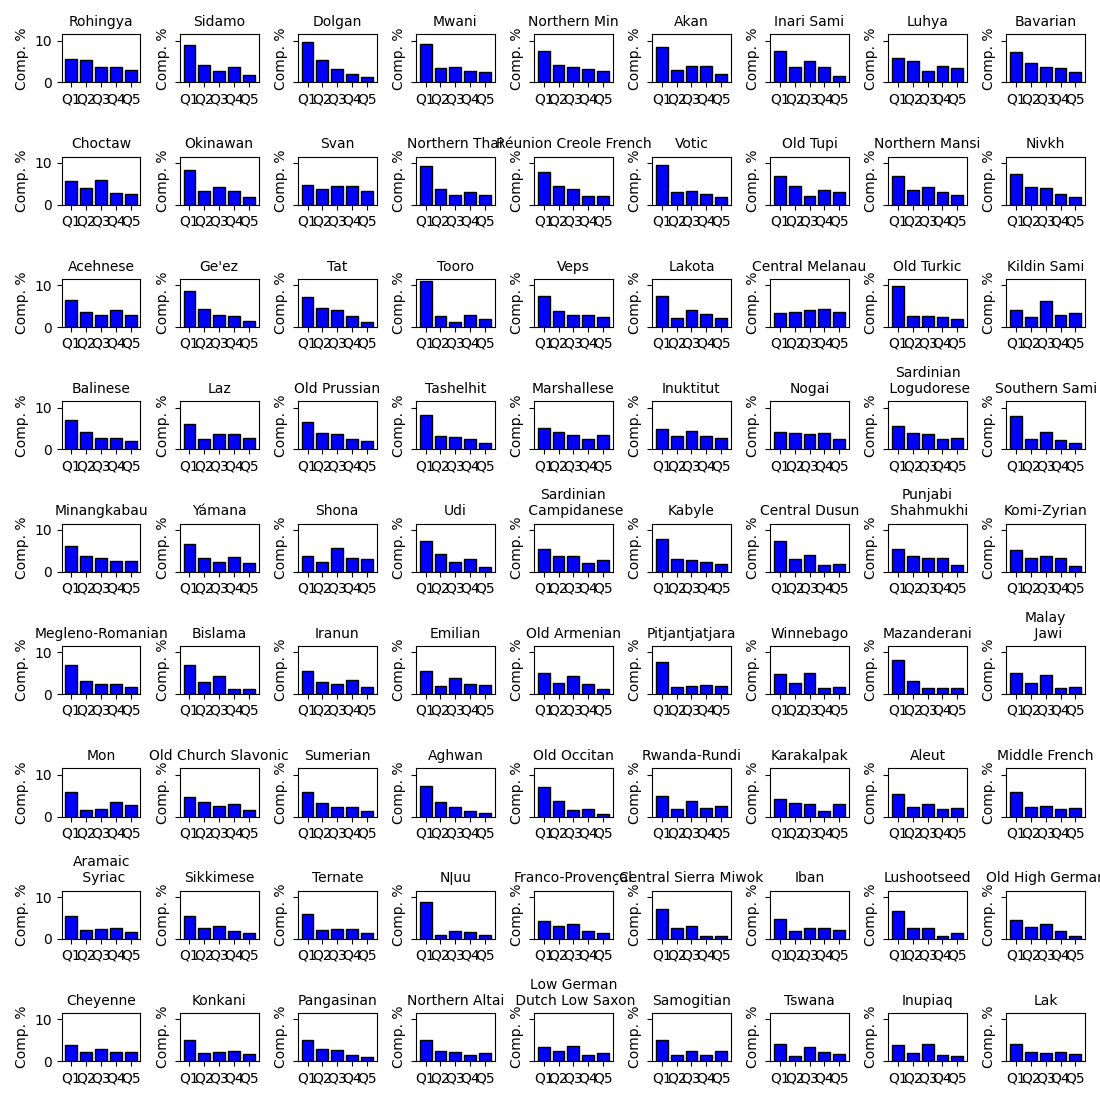
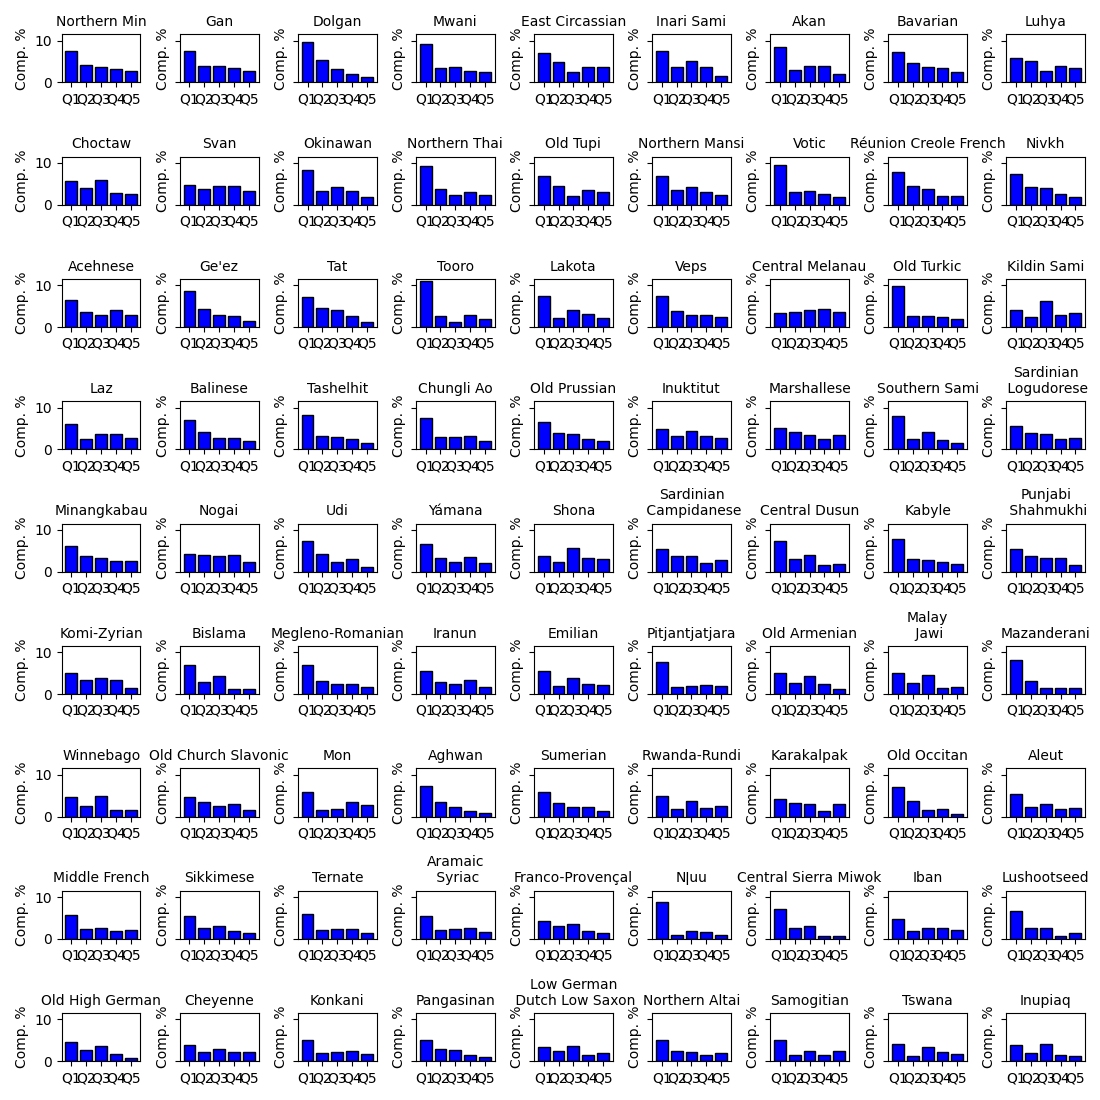
1. Add `njo-jgl` language code (Chungli Ao) to `input/lang_names_to_code.txt`
This will add the language to the output files as well.

2. We also added code to handle some data entry errors.

This change doesn't affect the output/tr_stats_newgsl.txt (other than making so that
Chungli Ao now meets the language selection criteria), and the fact
that we didn't define a tiebreaker for tied frequencies, so the sort
order may change for tied languages.

The output/count_trans_all_langs.txt does have minor changes though.

3. Added code to print data quality problems to stdout in
`src/extract_enwk_tr_long.py`.

We now print a message to stdout for any lines that start with '*' and
aren't a line we processed as a header (starts with '* ', '*: ', '*:: '
and ':' on remainder of line).

4. Add code to save file with `lang_name1` blank and `lang_name2`
 populated in `run_count_tr_all_langs.py`

Basically the process is we added checks (3) and (4) and identified some
lines with data entry problems that could be fixed (e.g., missing ':' or ' ').
Some of these were fixed online and will not be seen until the next download.
In other cases, we added code to correct the data entry errors before
processing continues. The errors corrected in the code were:

4a. '** Chongli Ao' had been entered, this was changed to '*: Chongli Ao'

4b. About 100 pages for the same 4 languages used a non-breaking space in
the language headers

4c. There was often a space missing between the leading bullet '*' or '*:'
and the language name.
[…]

diff --git a/src/extract_enwk_tr_long.py b/src/extract_enwk_tr_long.py
@@ -27,6 +27,7 @@ from collections import Counter
 from dataclasses import make_dataclass, field
 
 import csv
+import re
 
 #-----------------------------------------------------------------------------
 # Constants
@@ -87,6 +88,25 @@ def split_line(line, which_colon):
     #print(line_list[0:which_colon])
     return True, ':'.join(line_list[0:which_colon]), line_list[which_colon]
 
+def _clean_line(x):
+    # Fix some common data quality problems
+    x1 = re.sub('^\\*\xa0French:\xa0',    '* French: ', x)
+    x1 = re.sub('^\\*\xa0French:',        '* French:', x1)
+    x1 = re.sub('^\\*\xa0Finnish:\xa0',   '* Finnish: ', x1)
+    x1 = re.sub('^\\*\xa0Finnish:',       '* Finnish:', x1)
+    x1 = re.sub('^\\*\xa0Chinese:\xa0',   '* Chinese: ', x1)
+    x1 = re.sub('^\\*\xa0Chinese:',       '* Chinese:', x1)
+    x1 = re.sub('^\\*:\xa0Mandarin:',     '*: Mandarin:', x1)
+    x1 = re.sub('^\\*:\xa0Mandarin:\xa0', '*: Mandarin: ', x1)
+
+    x1 = re.sub('^\\*Spanish:',            '* Spanish:', x1)
+    x1 = re.sub('^\\*French:',             '* French:', x1)
+    x1 = re.sub('^\\*Chinese:',            '* Chinese:', x1)
+    x1 = re.sub('^\\*:Mandarin: ',        '*: Mandarin: ', x1)
+
+    x1 = re.sub('^\\*\\* Chungli Ao:', '*: Chungli Ao:', x1)
+    return x1
+
 def _process_mainspace_page(opf, otf_writer, title, word, ctr):
     lines = word.wikitext.split('\n')
     english_entries = 0
@@ -139,6 +159,11 @@ def _process_mainspace_page(opf, otf_writer, title, word, ctr):
                 pending_trec = False
                 in_trans = False
             if in_trans and line.startswith('*') and ':' in line:
+                # don't clean this page, since none of the headers have
+                # spacing, so fixing the few we fix causes wrong assignment
+                # of level-2 headers since the others aren't seen
+                if title != 'Thucydides':
+                    line = _clean_line(line)
                 if line.startswith('* '):
                     ok, left, right = split_line(line, which_colon=1)
                     if ok:
@@ -176,6 +201,10 @@ def _process_mainspace_page(opf, otf_writer, title, word, ctr):
                     print(f'WARNING: *:::! {trec.title=} {trec.transtop_line=} {trec.lev1=}, {trec.lev2=} {trec.lev3=} {line=}')
                 elif line.startswith('*:::: '):
                     print(f'WARNING: *::::! {trec.title=} {trec.transtop_line=} {trec.lev1=}, {trec.lev2=} {trec.lev3=} {line=}')
+                elif line.startswith('*'):
+                    print(f'WARNING: OTHER_W_COLON (*)! {trec.title=} {trec.transtop_line=} {line=}')
+            elif in_trans and line.startswith('*'):
+                print(f'WARNING: OTHER_W_COLON (*)! {trec.title=} {trec.transtop_line=} {line=}')
     if pending_trec:
         trec.tteseq = ''
         trec.h3 = ''

diff --git a/src/run_count_tr_all_langs.py b/src/run_count_tr_all_langs.py
@@ -9,6 +9,7 @@ import csv
 INPUT_TRANS_FILE = '../output/intermediate/en_long_trans.txt'
 BAD_NAMES_FILE = '../input/not_lang_names.txt'
 BAD_NAMES_OUTPUT_FILE = '../output/intermediate/not_lang_names_output.txt'
+NAME1_BLANK_OUTPUT_FILE = '../output/intermediate/name1_blank_output.txt'
 OUTPUT_FILE = '../output/translations/count_trans_all_langs.txt'
 PIVOT_KEY = ['page','tteseq','h3','h4','h5','transtop_line']
 OUTPUT_VARS = ['lang_name1','lang_name2','lang_name3',
@@ -69,6 +70,7 @@ df = df[ ~bothblank ]
 print(f'`lang_name1` and `lang_name2` both empty       {n_del1:>10}{len(df):>10}')
 name1blank = df.lang_name1 == ''
 n_del2 = len(df[name1blank])
+df[name1blank].to_csv(NAME1_BLANK_OUTPUT_FILE, sep='\t', quoting=csv.QUOTE_NONE)
 df = df[ ~name1blank ]
 print(f'`lang_name1` empty                             {n_del2:>10}{len(df):>10}')
 otherbad = df._merge == 'both'

diff --git a/src/run_combine_table.py b/src/run_combine_table.py
@@ -48,7 +48,7 @@ plt.ylabel('Deutsch im Blick translation completion %')
 plt.savefig("../output/translations/newgsl_by_dib_scatterplot.png")
 #plt.show()
 
-final_df = mrg.sort_values(['pct100_ngsl'], ascending=False)
+final_df = mrg.sort_values(['pct100_ngsl','lang_desc_ngsl'], ascending=[False, True])
 #print(final_df[pd.isna(final_df.pct100str_ngsl)])
 
 final_df['md_row'] = ('| ' + final_df.lang_ngsl +
